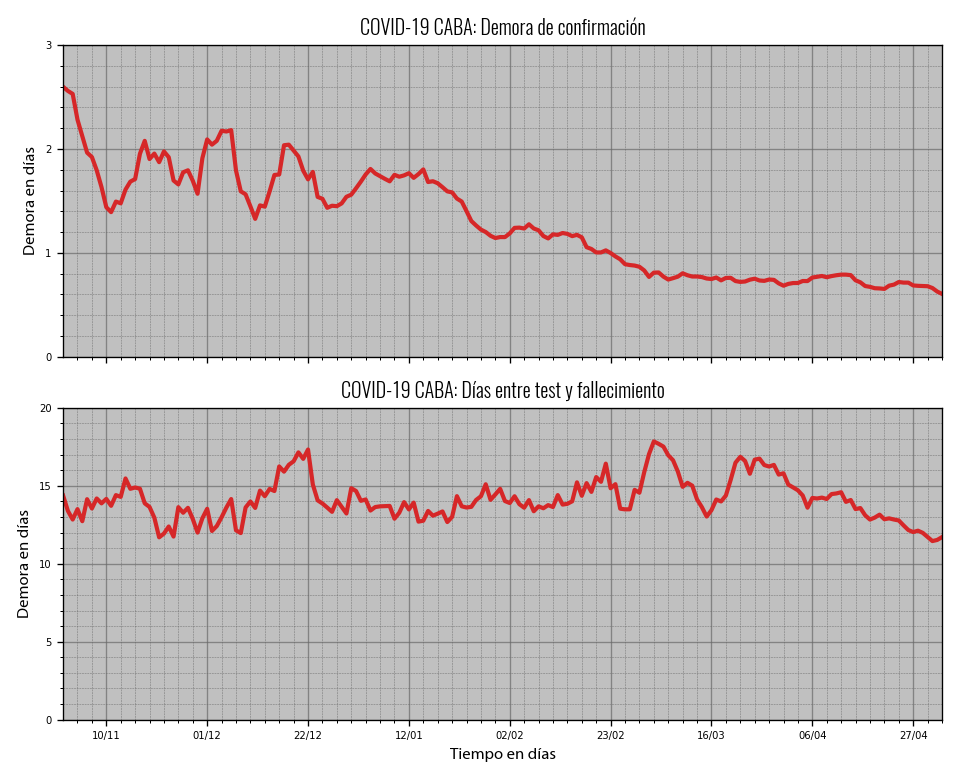
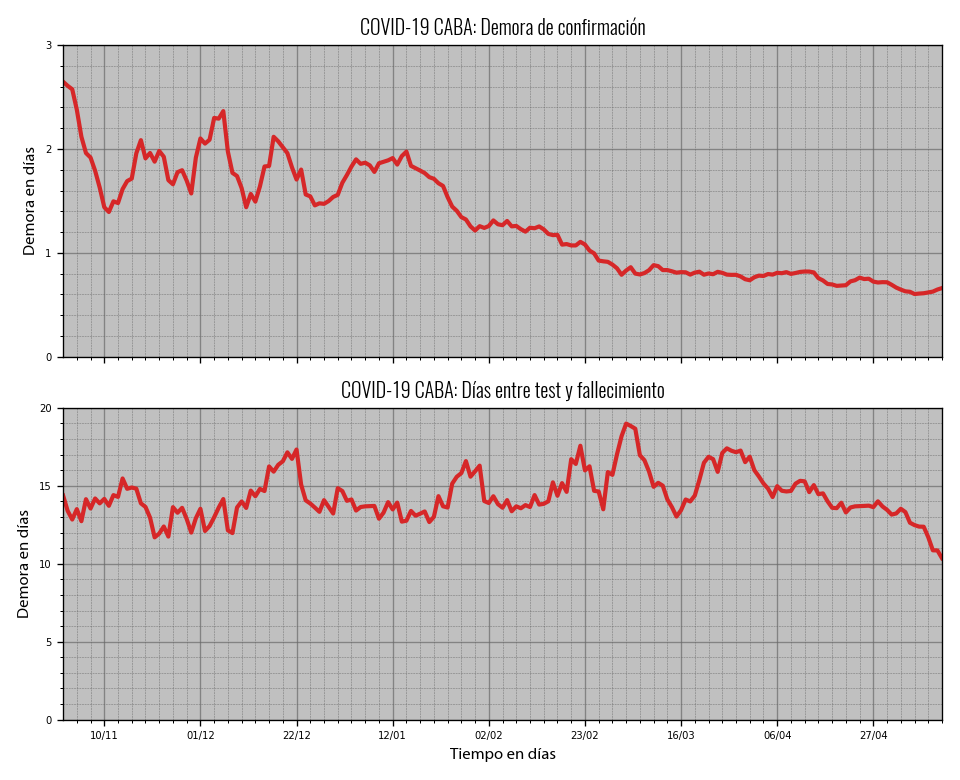
Updating charts...

diff --git a/p_trigger.py b/p_trigger.py
@@ -14,15 +14,15 @@ ecalls.plot_calls_ratios_avg(0, 0.05,1)
 ecalls.plot_total_calls_avg()
 
 #Building vaccination champaign charts
-vac.plot_total_vac_by_sex(0, 150000, 1000)
-vac.plot_total_vac_by_dose(0, 150000, 1000)
+vac.plot_total_vac_by_sex(0, 200000, 1000)
+vac.plot_total_vac_by_dose(0, 200000, 1000)
 vac.plot_doses_by_age_avg(0, 3000, 1000)
-vac.plot_doses_by_vac_avg(0, 2000, 1000)
+vac.plot_doses_by_vac_avg(0, 5000, 1000)
 vac.plot_reached_population_by_age(0, 0.25, 1)
 vac.plot_reached_population_by_sex(0.05, 1)
 
 #Building cases charts
-cases.plot_total_cases(0, 0, 50000, 1000, 1500, 1000)
+cases.plot_total_cases(0, 0, 100000, 1000, 1500, 1000)
 cases.plot_total_avg(0, 0, 500, 1, 15, 1)
 cases.plot_delay_evol(0, 0, 1, 1, 5, 1)
 cases.plot_cases_by_age_avg(0, 0, 250, 1, 5, 1)

diff --git a/chart_config.py b/chart_config.py
@@ -26,7 +26,7 @@ language = 1 #0 = english, 1 = spanish
 legend_text_size = 8
 plot_scale = "linear"
 start_date = "2020-11-01"
-end_date = "2021-06-02"
+end_date = "2021-06-11"
 week_interval = 3
 v_start_date = "2021-01-01"
 v_week_interval = 2
